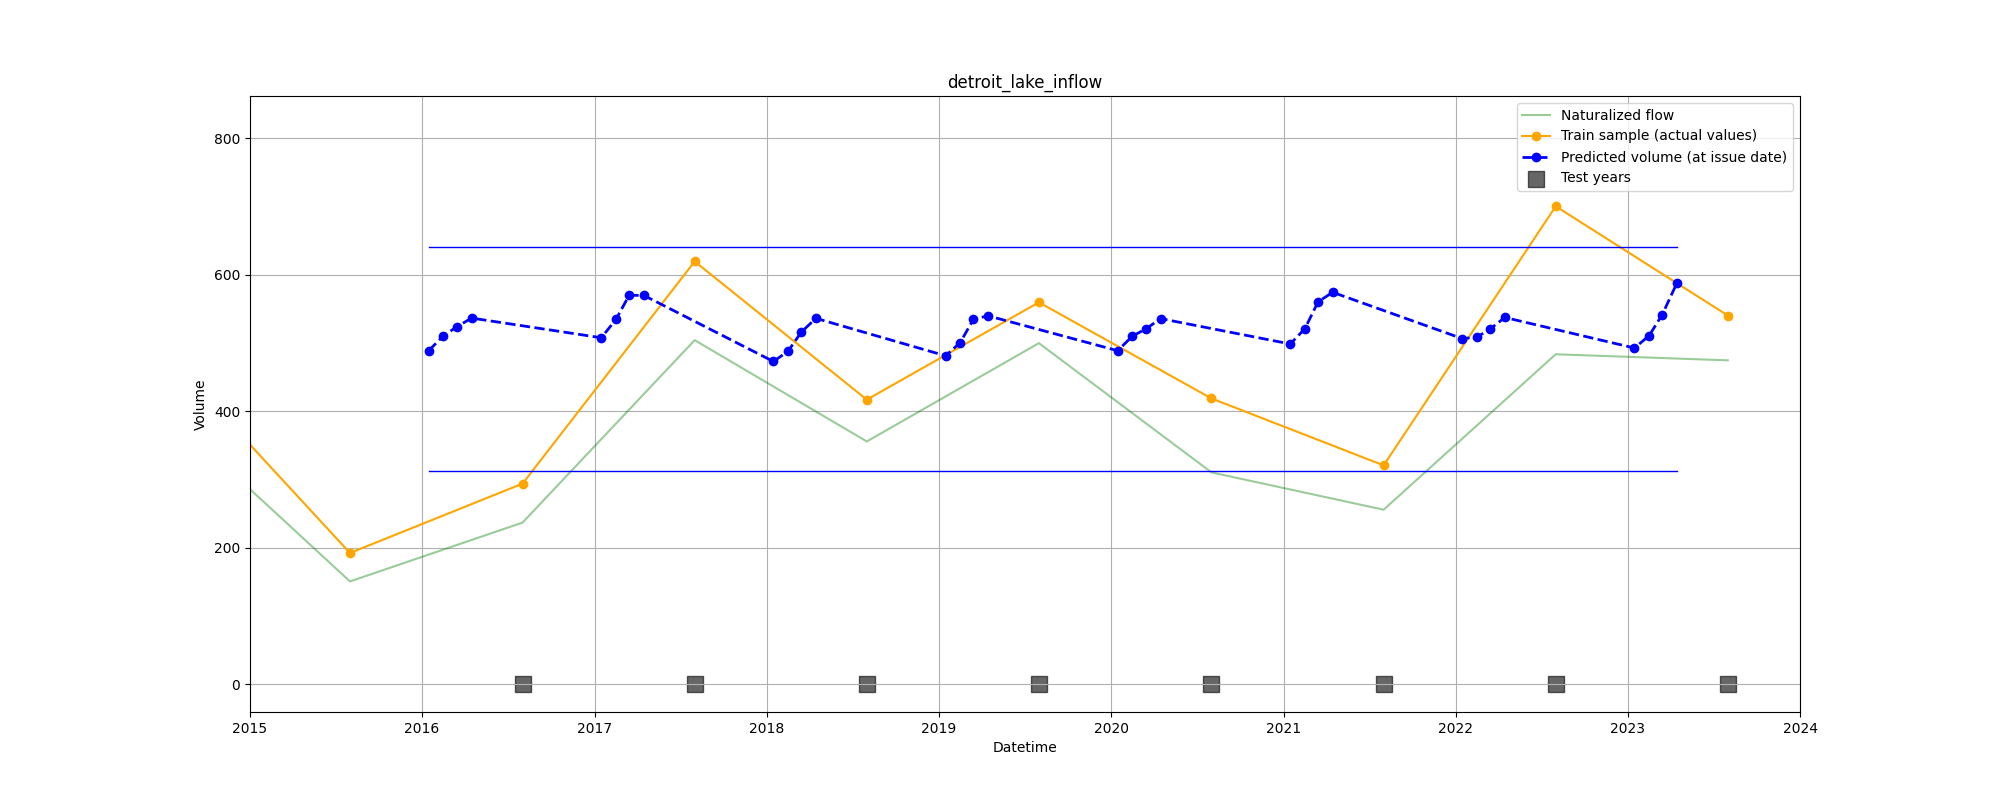
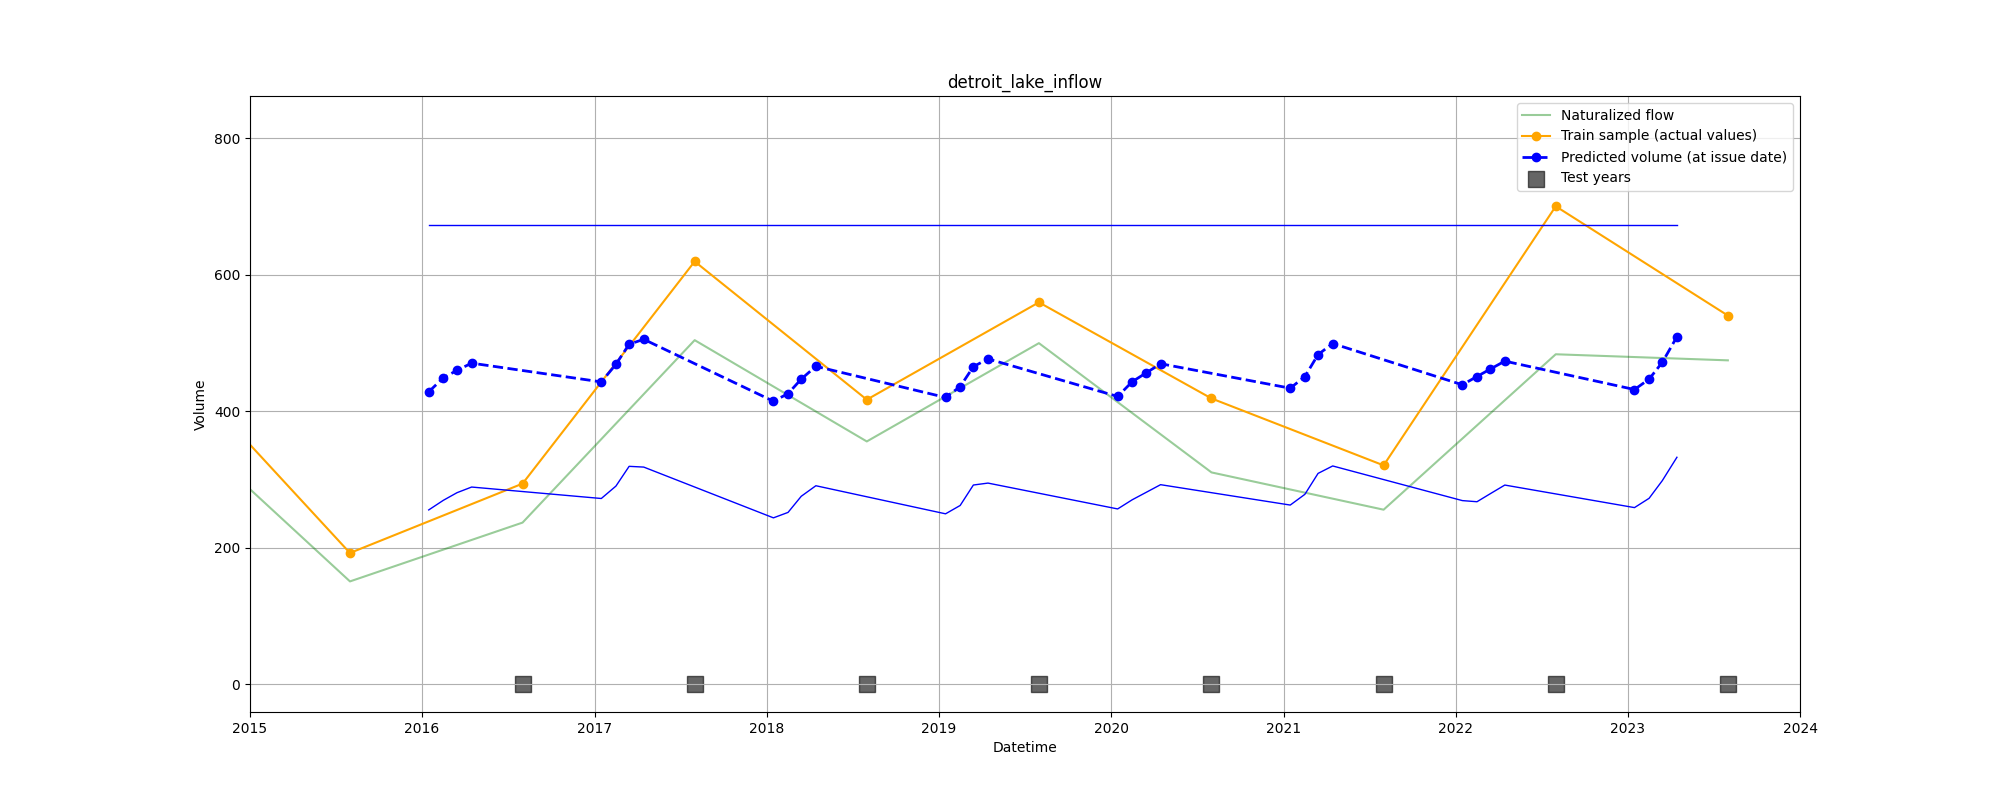
final model

diff --git a/wasu/development/models/common.py b/wasu/development/models/common.py
@@ -121,9 +121,9 @@ class CommonRegression(TrainModel):
 
     def __init__(self, train_df: pd.DataFrame,
                  method: str = 'lg',
-                 aggregation_days_snodas: int = 90,
-                 aggregation_days_snotel: int = 90,
-                 aggregation_days_pdsi: int = 90):
+                 aggregation_days_snotel_short: int = 90,
+                 aggregation_days_snotel_long: int = 90,
+                 aggregation_days_pdsi: int = 90, train_test_split_year: int = 2015):
         super().__init__(train_df)
 
         # Use only available data
@@ -134,12 +134,13 @@ class CommonRegression(TrainModel):
         self.train_df = self.train_df.dropna()
         self.train_df['year_as_int'] = self.train_df['year'].dt.year
 
-        self.name = f'common_{method}_{aggregation_days_snodas}_{aggregation_days_snotel}_{aggregation_days_pdsi}'
-        self.aggregation_days_snodas = aggregation_days_snodas
-        self.aggregation_days_snotel = aggregation_days_snotel
+        self.name = f'common_{method}_{aggregation_days_snotel_short}_{aggregation_days_snotel_long}_{aggregation_days_pdsi}'
+        self.aggregation_days_snotel_short = aggregation_days_snotel_short
+        self.aggregation_days_snotel_long = aggregation_days_snotel_long
         self.aggregation_days_pdsi = aggregation_days_pdsi
         self.model_folder = ModelsCreator(self.name).model_folder()
         self.method = method
+        self.train_test_split_year = train_test_split_year
 
     def load_data_from_kwargs(self, kwargs):
         metadata: pd.DataFrame = kwargs['metadata']
@@ -178,8 +179,8 @@ class CommonRegression(TrainModel):
             else:
                 raise NotImplementedError()
 
-            df_fit = dataframe_for_model_fit.copy()
-            df_test = dataframe_for_model_fit[dataframe_for_model_fit['issue_date'].dt.year >= 2020]
+            df_fit = dataframe_for_model_fit[dataframe_for_model_fit['issue_date'].dt.year <= self.train_test_split_year]
+            df_test = dataframe_for_model_fit[dataframe_for_model_fit['issue_date'].dt.year > self.train_test_split_year]
             if self.method != 'linear':
                 if alpha == 0.9:
                     target = np.array(df_fit['target']) * 1.3
@@ -284,8 +285,8 @@ class CommonRegression(TrainModel):
 
                 current_dataset = None
                 for df, aggregation_days, label in zip([snotel_df, snotel_df, pdsi_df],
-                                                       [self.aggregation_days_snodas,
-                                                        self.aggregation_days_snotel,
+                                                       [self.aggregation_days_snotel_short,
+                                                        self.aggregation_days_snotel_long,
                                                         self.aggregation_days_pdsi],
                                                        ['snotel', 'snotel', 'pdsi']):
                     dataset = aggregate_data_for_issue_date(issue_date, day_of_year, df, aggregation_days,
@@ -338,8 +339,8 @@ class CommonRegression(TrainModel):
 
             current_dataset = None
             for df, aggregation_days, label in zip([snotel_df, snotel_df, pdsi_df],
-                                                   [self.aggregation_days_snodas,
-                                                    self.aggregation_days_snotel,
+                                                   [self.aggregation_days_snotel_short,
+                                                    self.aggregation_days_snotel_long,
                                                     self.aggregation_days_pdsi],
                                                    ['snotel', 'snotel', 'pdsi']):
                 dataset = aggregate_data_for_issue_date(issue_date, issue_date.dayofyear, df, aggregation_days,

diff --git a/examples/9_common/predict_common_validation.py b/examples/9_common/predict_common_validation.py
@@ -6,16 +6,18 @@ import pandas as pd
 
 from wasu.development.models.common import CommonRegression
 from wasu.development.validation import ModelValidation
+from wasu.development.vis.visualization import TimeSeriesPlot
 
 warnings.filterwarnings('ignore')
 
 
 def generate_forecast_based_on_snotel():
     method = 'linear'
-    aggregation_days_snodas = 21
-    aggregation_days_snotel = 120
-    aggregation_days_pdsi = 124
-    validator = ModelValidation(folder_for_plots='common')
+    aggregation_days_snotel_short = 40
+    aggregation_days_snotel_long = 120
+    aggregation_days_pdsi = 120
+    validation_year = [2016, 2017, 2018, 2019, 2020, 2021, 2022, 2023]
+    validator = ModelValidation(folder_for_plots='common', years_to_validate=validation_year)
 
     train_df = pd.read_csv(Path('../../data/train.csv'), parse_dates=['year'])
     submission_format = validator.generate_submission_format()
@@ -27,17 +29,16 @@ def generate_forecast_based_on_snotel():
     path_to_pdsi = Path('../../data/pdsi_csv').resolve()
 
     model = CommonRegression(train_df=train_df, method=method,
-                             aggregation_days_snodas=aggregation_days_snodas,
-                             aggregation_days_snotel=aggregation_days_snotel,
+                             aggregation_days_snotel_short=aggregation_days_snotel_short,
+                             aggregation_days_snotel_long=aggregation_days_snotel_long,
                              aggregation_days_pdsi=aggregation_days_pdsi)
     predicted = model.predict(submission_format, metadata=metadata, path_to_snotel=path_to_snotel,
                               path_to_snodas=path_to_snodas,
                               path_to_pdsi=path_to_pdsi)
 
-    validator.compare_dataframes(predicted, train_df)
-    model.save_predictions_as_submit(predicted,
-                                     path=f'./validation/{method}_{aggregation_days_snodas}_{aggregation_days_snotel}_{aggregation_days_pdsi}.csv',
-                                     submission_format=submission_format)
+    file = f'./validation/{method}_{aggregation_days_snotel_short}_{aggregation_days_snotel_long}_{aggregation_days_pdsi}.csv'
+    validator.compare_dataframes(predicted, train_df, save_predicted_vs_actual_into_file=file)
+    TimeSeriesPlot(validation_year).predicted_time_series(predicted, plots_folder_name='predictions_snotel')
 
 
 if __name__ == '__main__':

diff --git a/examples/10_common_experiment/validation_generated.py b/examples/10_common_experiment/validation_generated.py
@@ -43,8 +43,8 @@ def generate_forecast_based_on_snotel():
                     continue
 
                 model = CommonRegression(train_df=train_df, method=method,
-                                         aggregation_days_snodas=aggregation_days_snodas,
-                                         aggregation_days_snotel=aggregation_days_snotel,
+                                         aggregation_days_snotel_short=aggregation_days_snodas,
+                                         aggregation_days_snotel_long=aggregation_days_snotel,
                                          aggregation_days_pdsi=aggregation_days_pdsi)
                 predicted = model.predict(submission_format, metadata=metadata, path_to_snotel=path_to_snotel,
                                           path_to_snodas=path_to_snodas,

diff --git a/examples/4_snotel/predict_based_on_snotel.py b/examples/4_snotel/predict_based_on_snotel.py
@@ -27,10 +27,6 @@ def generate_forecast_based_on_snotel():
                                  enable_spatial_aggregation=True, collect_only_in_basin=False)
     predicted = model.predict(submission_format, metadata=metadata, path_to_snotel=path_to_snotel)
 
-    validator.compare_dataframes(predicted, train_df)
-    model.save_predictions_as_submit(predicted, path=f'./results/snotel_{aggregation_days}.csv',
-                                     submission_format=submission_format)
-
     validator.compare_dataframes(predicted, train_df,
                                  save_predicted_vs_actual_into_file=f'./validation/snotel_{aggregation_days}.csv')
     TimeSeriesPlot(validation_year).predicted_time_series(predicted, plots_folder_name='predictions_snotel')

diff --git a/examples/10_common_experiment/train_common.py b/examples/10_common_experiment/train_common.py
@@ -35,8 +35,8 @@ def train_common_models_with_different_hyperparameters():
 
                 try:
                     model = CommonRegression(train_df=train_df, method='linear',
-                                             aggregation_days_snodas=aggregation_days_snodas,
-                                             aggregation_days_snotel=aggregation_days_snotel,
+                                             aggregation_days_snotel_short=aggregation_days_snodas,
+                                             aggregation_days_snotel_long=aggregation_days_snotel,
                                              aggregation_days_pdsi=aggregation_days_pdsi)
 
                     model.fit(submission_format, metadata=metadata,

diff --git a/examples/9_common/train_common.py b/examples/9_common/train_common.py
@@ -21,9 +21,9 @@ def train_common_model():
     path_to_pdsi = Path('../../data/pdsi_csv').resolve()
 
     model = CommonRegression(train_df=train_df, method='linear',
-                             aggregation_days_snodas=21,
-                             aggregation_days_snotel=120,
-                             aggregation_days_pdsi=124)
+                             aggregation_days_snotel_short=40,
+                             aggregation_days_snotel_long=120,
+                             aggregation_days_pdsi=120)
 
     model.fit(submission_format, metadata=metadata,
               path_to_snotel=path_to_snotel, path_to_snodas=path_to_snodas, path_to_pdsi=path_to_pdsi,

diff --git a/examples/7_snodas/3_time_series_visualization.py b/examples/7_snodas/3_time_series_visualization.py
@@ -59,4 +59,4 @@ def show_time_series(site_id: str):
 
 
 if __name__ == '__main__':
-    show_time_series(site_id='animas_r_at_durango')
+    show_time_series(site_id='pueblo_reservoir_inflow')

diff --git a/README.md b/README.md
@@ -207,8 +207,30 @@ Animation 1. Snow accumulation per days for site `hungry_horse_reservoir_inflow`
 
 Figure 10. Forecasts for tests years for site `animas_r_at_durango` using SNODAS-based model (aggregation days: 120, kernel model - `QuantileRegressor`)
 
+### Common model
 
-### Final model
+Validation years: `2016, 2017, 2018, 2019, 2020, 2021, 2022, 2023`
+
+Since SNODAS and SNOTEL data are compatible in the terms of feature engineering is was decided to use only SNOTEL 
+data because it is much easier to process (Figure 11)
+
+![pueblo_reservoir_inflow_ts_mean_Modeled snow water equivalent, total of snow layers.png](examples%2Fplots%2Fsnodas_investigation%2Fpueblo_reservoir_inflow_ts_mean_Modeled%20snow%20water%20equivalent%2C%20total%20of%20snow%20layers.png)
+
+Figure 11. SNODAS and SNOTEL data comparison vs target for site `pueblo_reservoir_inflow`
+
+The graph shows that snowpack does not completely determine target. 
+Therefore, it was decided to include an additional parameter, PDSI, 
+in the model to account for soil characteristics. 
+
+TODO: add description why it was decided to add several aggregations per SNOTEL 
+
+- **MAE metric**: 197.09
+- **MAPE metric**: 30.71
+- **Symmetric MAPE metric**: 29.03
+- **Quantile loss metric**: 132.90
+- **Quantile loss metric (only for 0.5 quantile)**: 197.09
+
+### Final model 
 
 Common model. Final model metrics. 
 
